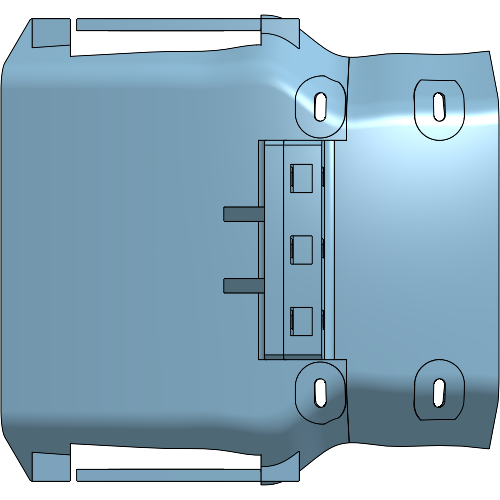
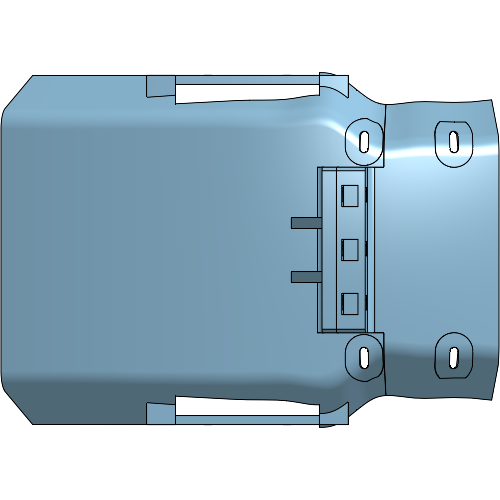
test coupon: extend B to s +115 so leg sheets and seal windows are complete

diff --git a/featurescript/README.md b/featurescript/README.md
@@ -135,6 +135,6 @@ The M3 bolt-hole teardrops point **+Y**. Print both parts **on their side with t
 ## Joint test coupon (from v2.11.1)
 - `test_coupon_v2.11.1.fs` (also saved as `test_coupon_v2.11.fs`): feature "Mudguard joint test coupon v2.11.1". It builds v2.11.1 and trims it with radial planes.
   - Coupon A: s -25 to the rear edge of A (front tie row, step faces, flange A, nut slots). 45.2 x 83.4 x 46.9 mm, 17.2 cm3.
-  - Coupon B: front edge of B to s +80 (ears, rear tie row, flange B, full leg sheets with windows and strap slots). 73.0 x 98.5 x 149.6 mm, 38.1 cm3.
-- They mate (no interference), the bolt holes align, and all slots are open. Roughly 70 g of PETG plus supports, about 3-3.5 h on the P1S. Print on the side (-Y down), like the full parts.
-- Onshape: https://cad.onshape.com/documents/b4a53e8390655572002075ff/w/12295830145b40df97e8c231/e/5b67a4974a5ea64603396eec (a branched workspace; the MCP can't create a separate document). Verification: `verification_test_coupon_v2.11.1.txt`. Renders: `renders/test_coupon_v2.11.1_*`.
+  - Coupon B: front edge of B to s +115 (ears, rear tie row, flange B, and the complete leg sheets with intact seal windows, 8 mm strips and all strap slots). 106.9 x 98.5 x 149.6 mm, 53.2 cm3. The first cut at s +80 clipped the bottom of the sheets, because the sheets are vertical while the cut is radial.
+- They mate (no interference), the bolt holes align, and all slots are open. Roughly 90 g of PETG plus supports, about 3.5-4 h on the P1S. Print on the side (-Y down), like the full parts.
+- Onshape: https://cad.onshape.com/documents/b4a53e8390655572002075ff/w/af67272cd0b1dfb0885ee86d/e/5b67a4974a5ea64603396eec (a branched workspace; the MCP can't create a separate document). Verification: `verification_test_coupon_v2.11.1.txt`. Renders: `renders/test_coupon_v2.11.1_*`.
